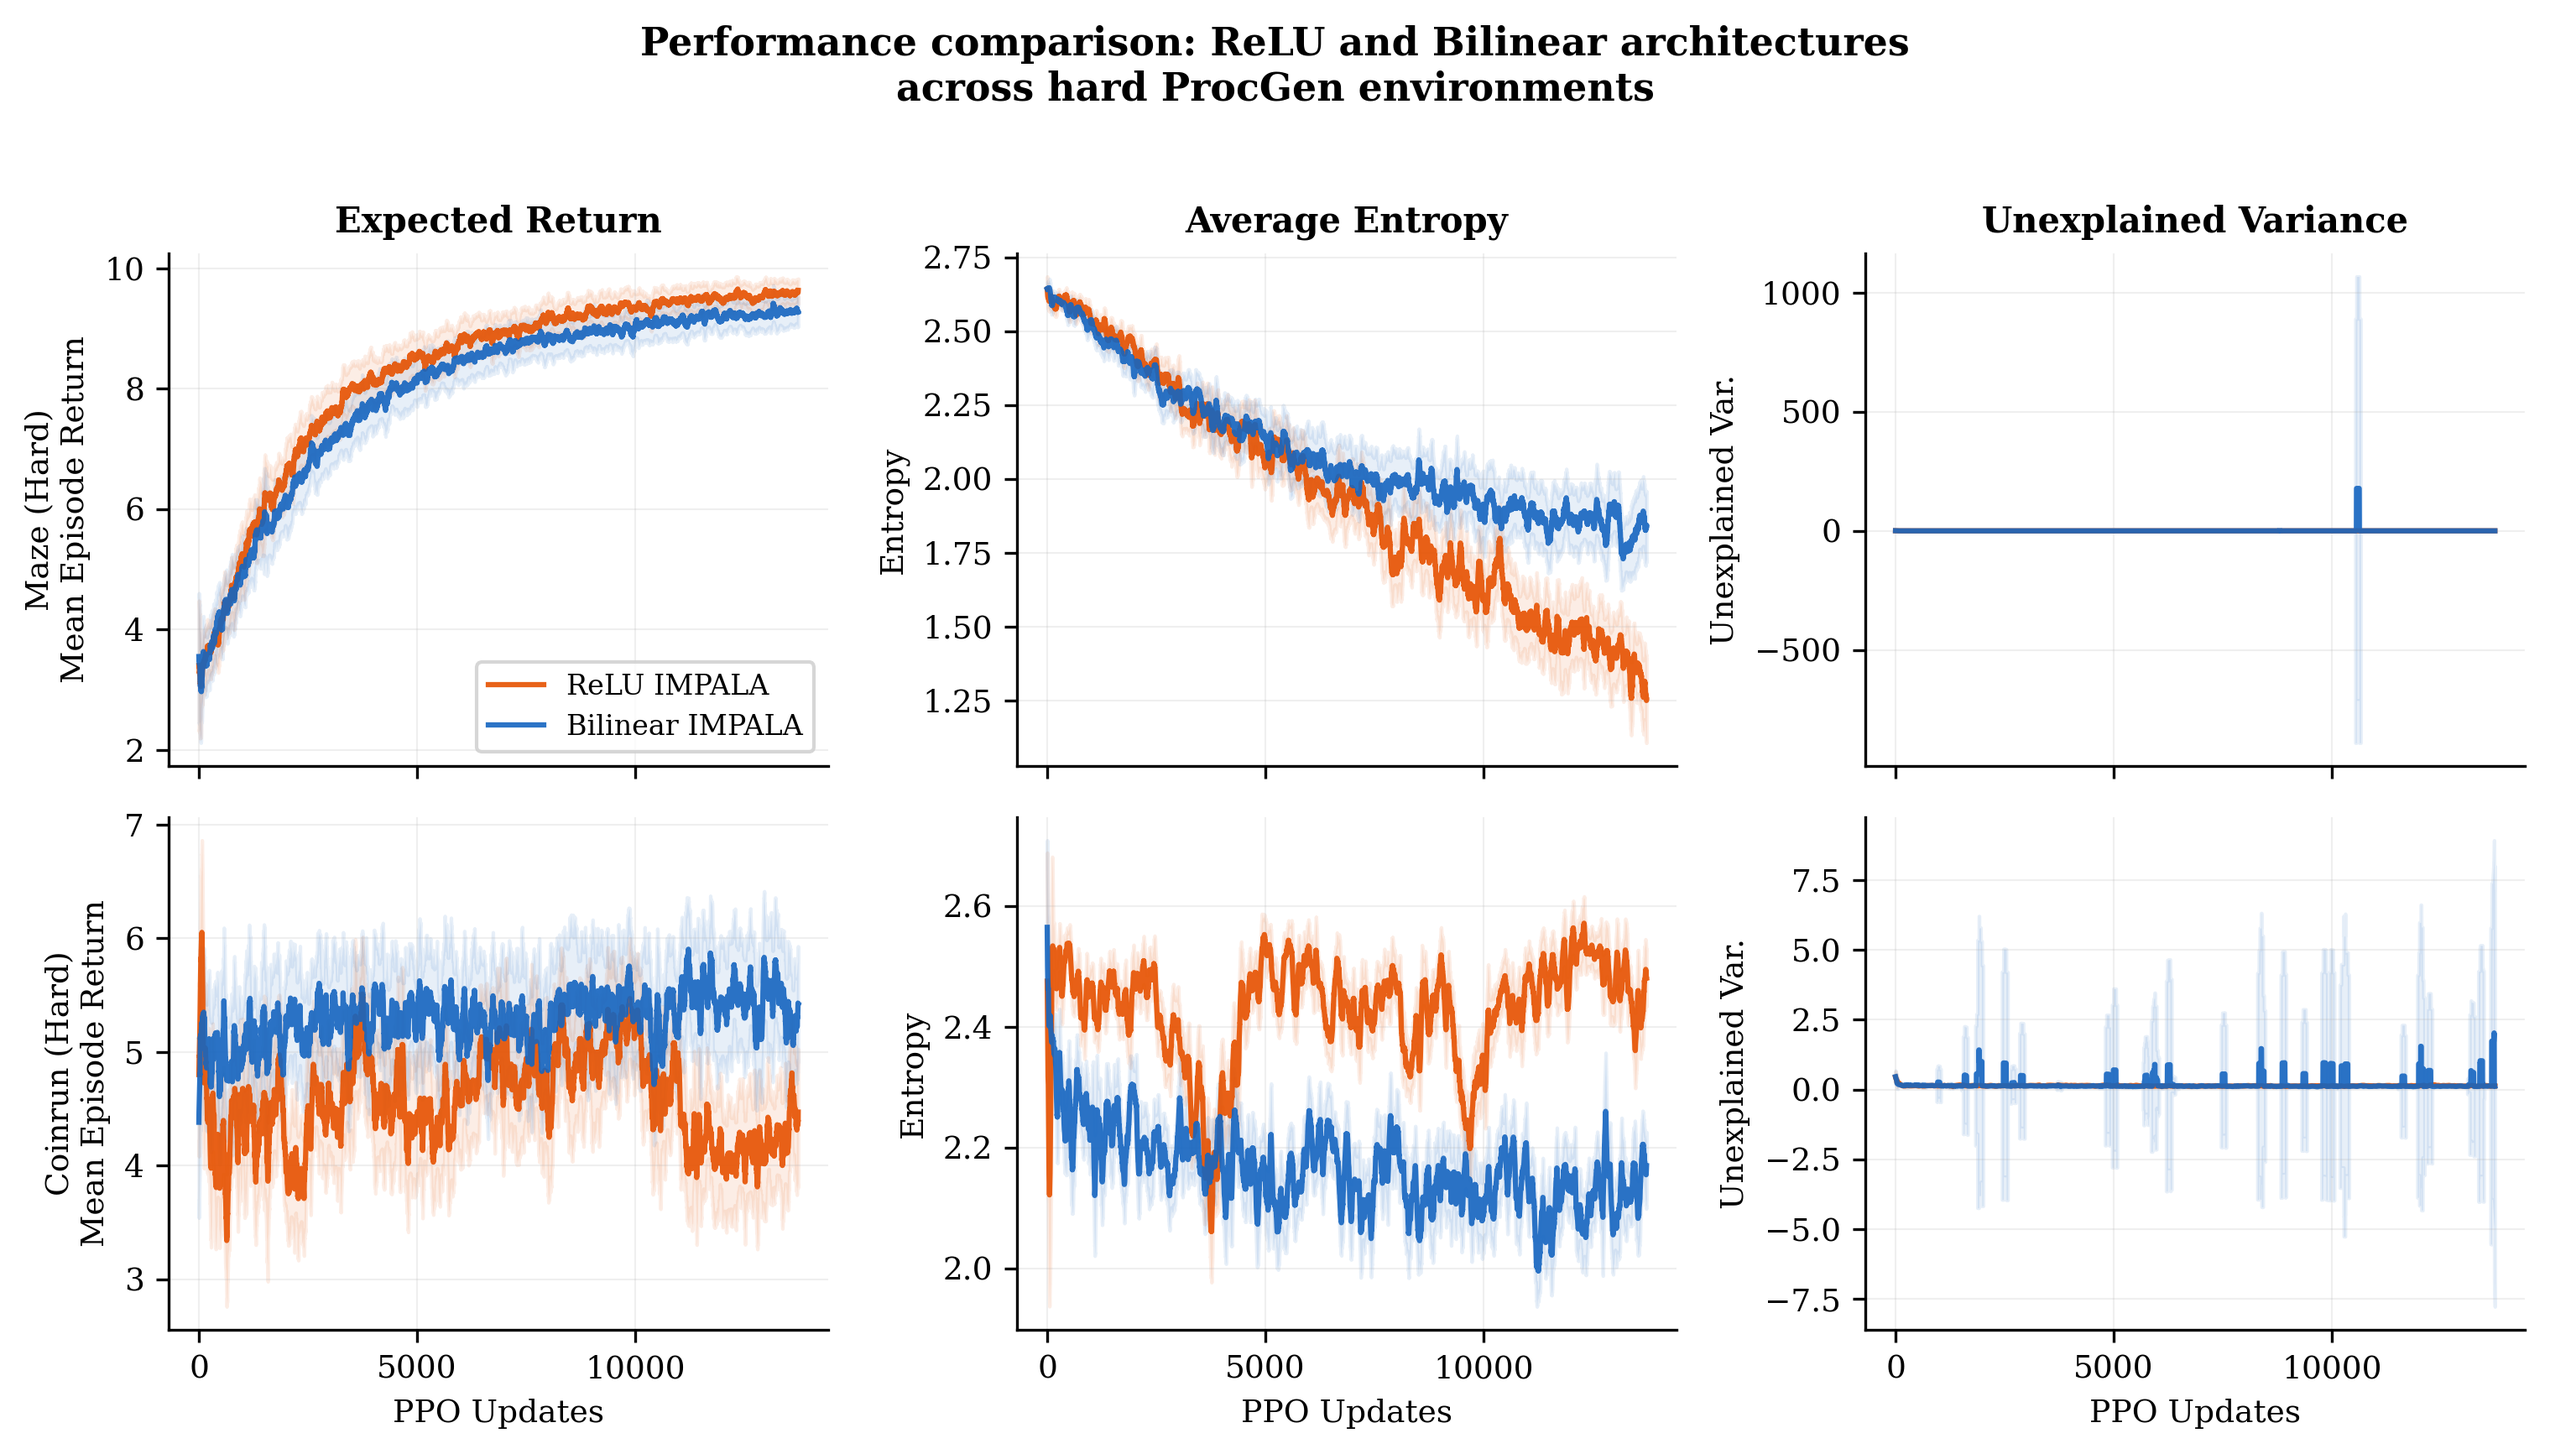
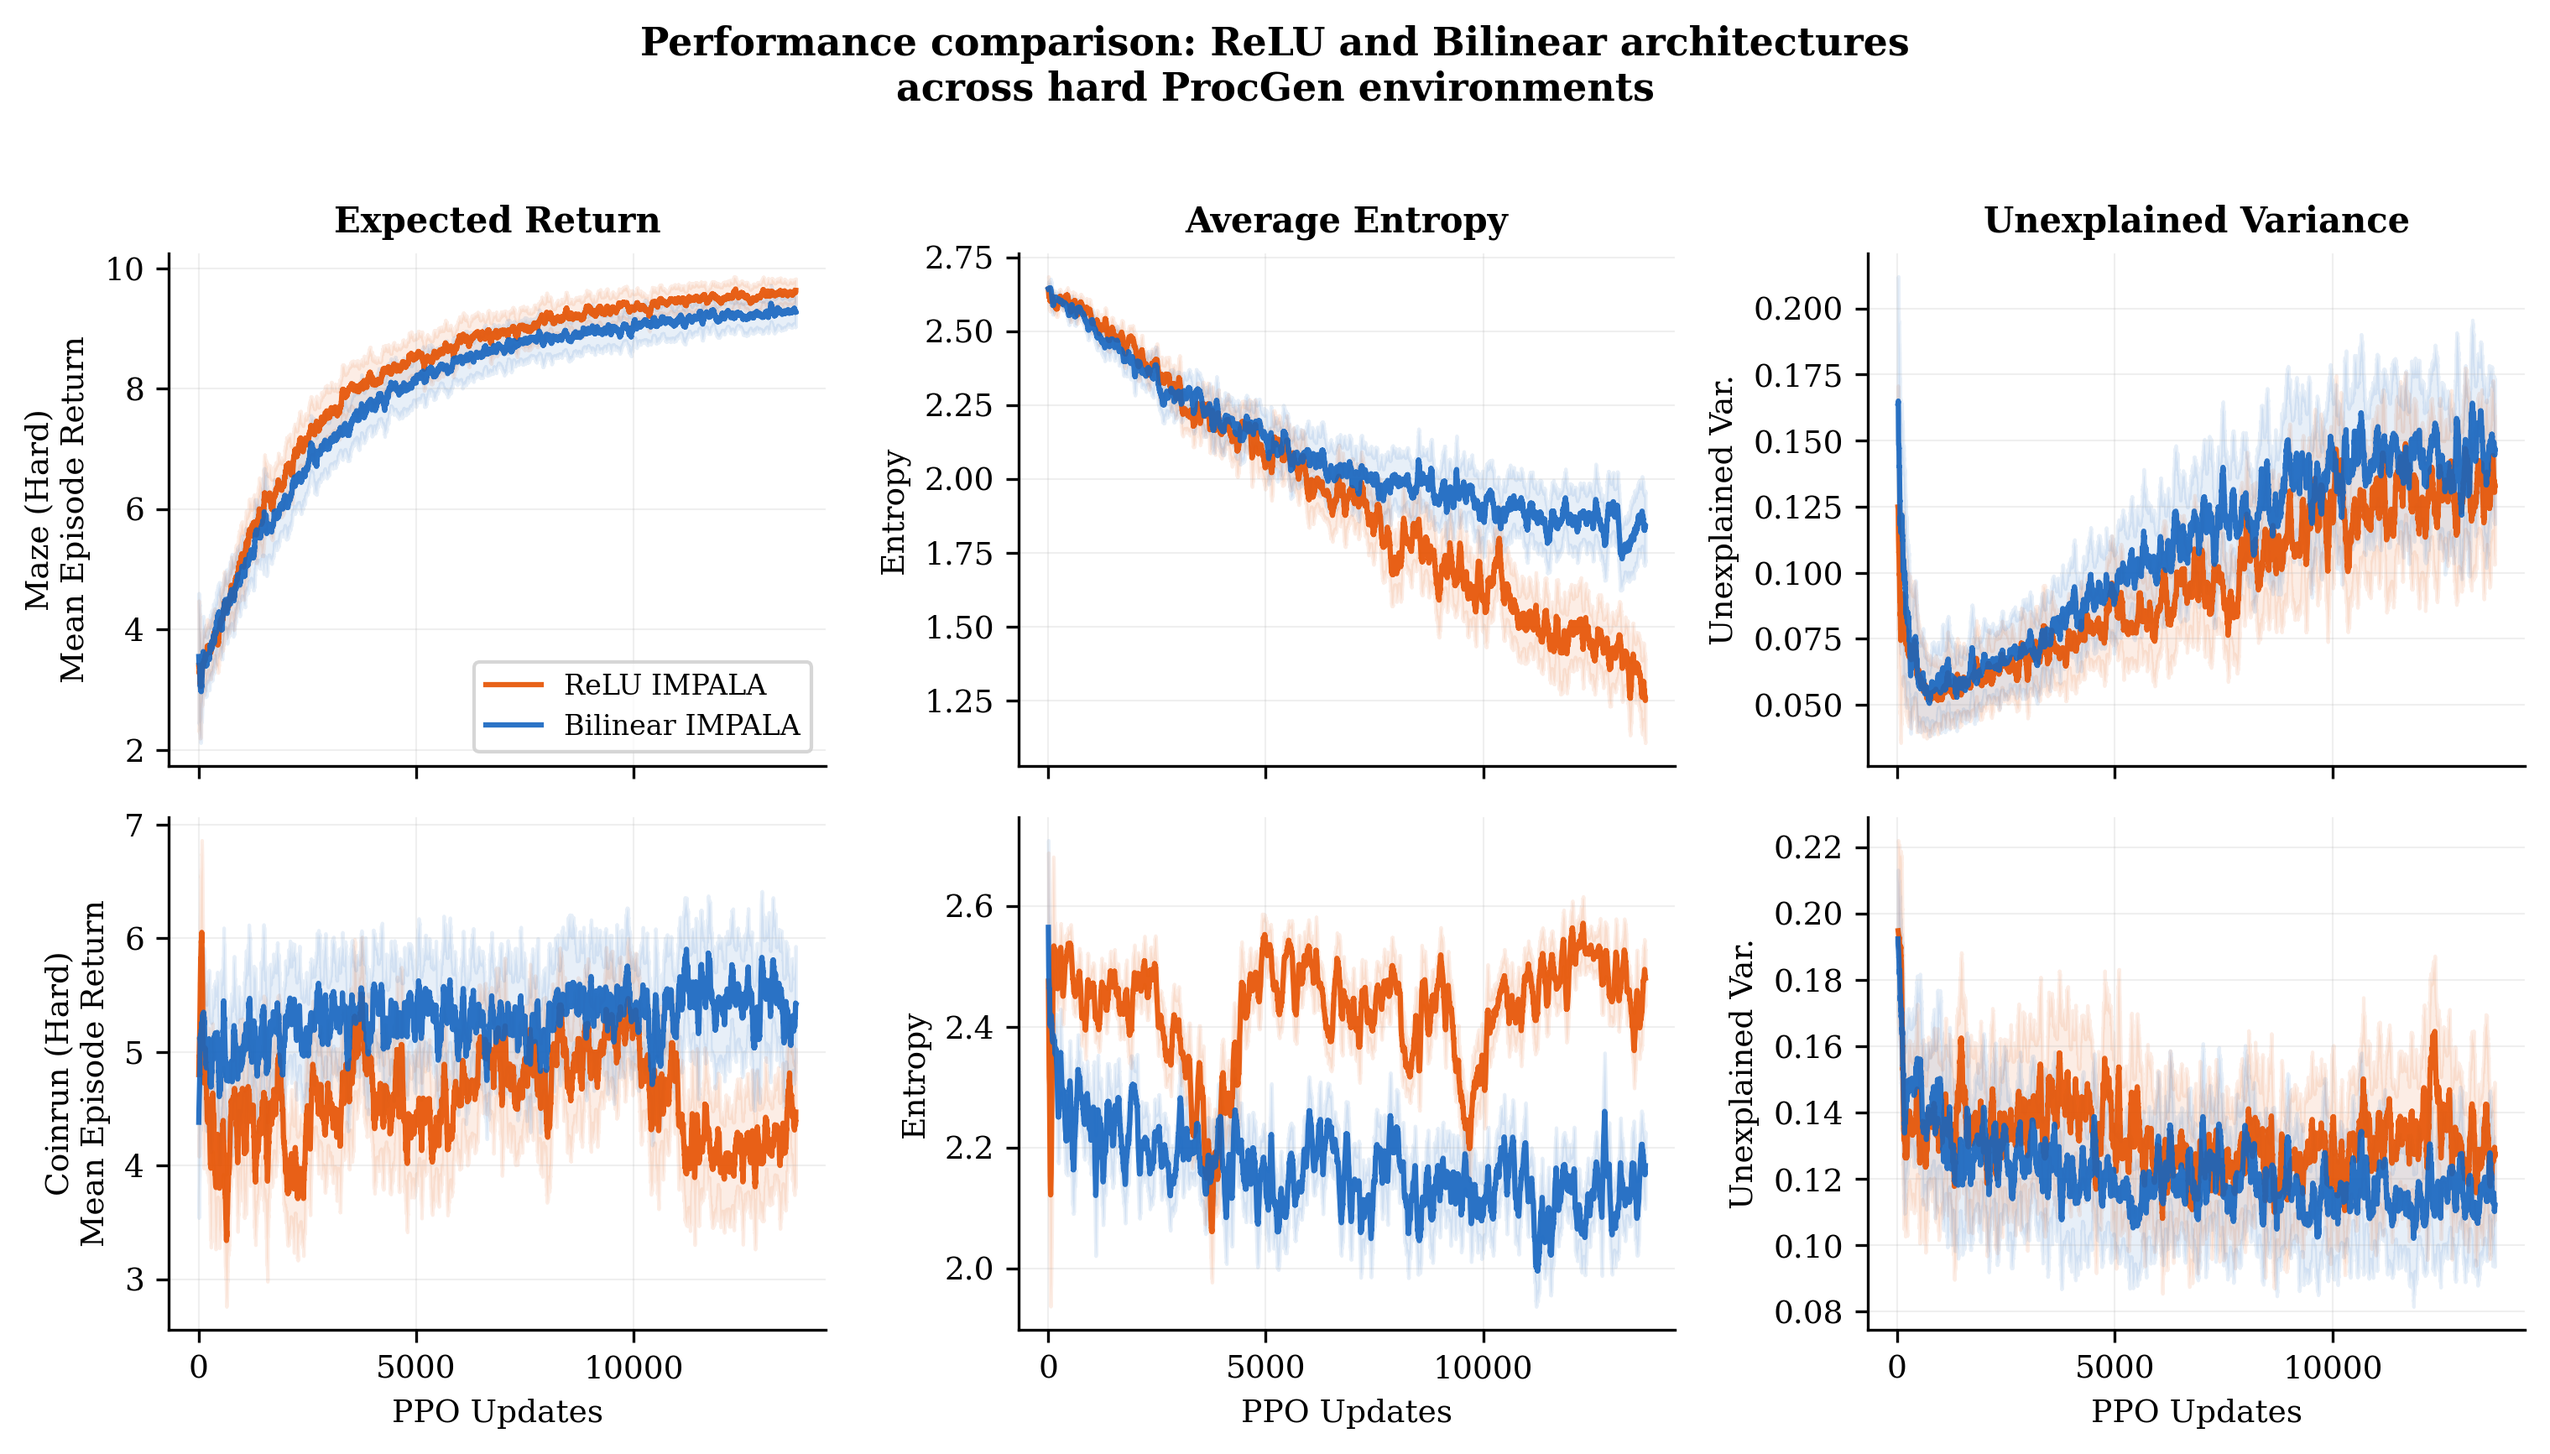
Fix unexplained variance plots by dropping outlier glitch values
Outlier values in explained_variance were stretching the y-axis
(e.g. -1000 to 1000), making the actual signal appear as a flat
horizontal line. Drop values outside 1st-99th percentile before
plotting.

diff --git a/generate_rebuttal_plots.py b/generate_rebuttal_plots.py
@@ -125,6 +125,10 @@ for row, env in enumerate(ENVS):
                 # Unexplained variance = 1 - explained_variance
                 raw = df['explained_variance'].dropna()
                 vals = 1.0 - raw
+                # Drop outliers (likely system glitches) outside 1st-99th percentile
+                lo, hi = vals.quantile(0.01), vals.quantile(0.99)
+                mask = vals.between(lo, hi)
+                vals = vals[mask]
             else:
                 vals = df[metric].dropna()
 
